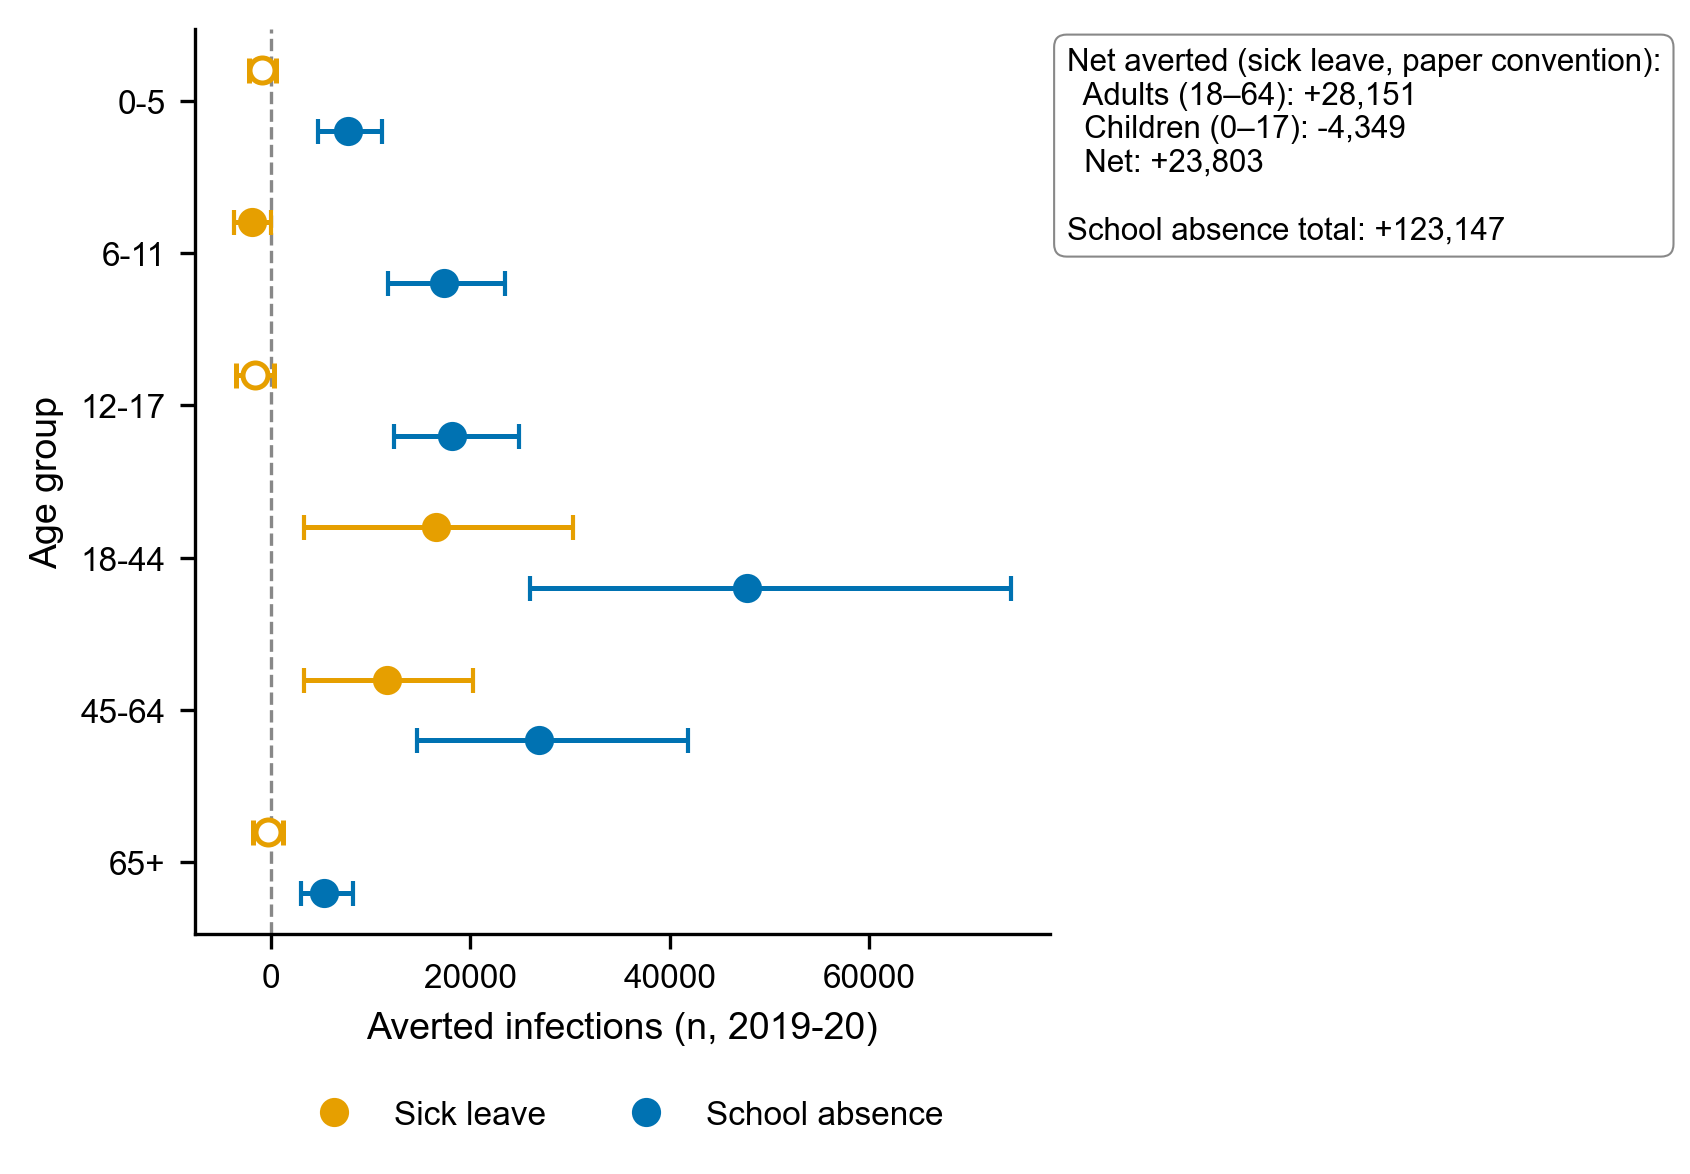
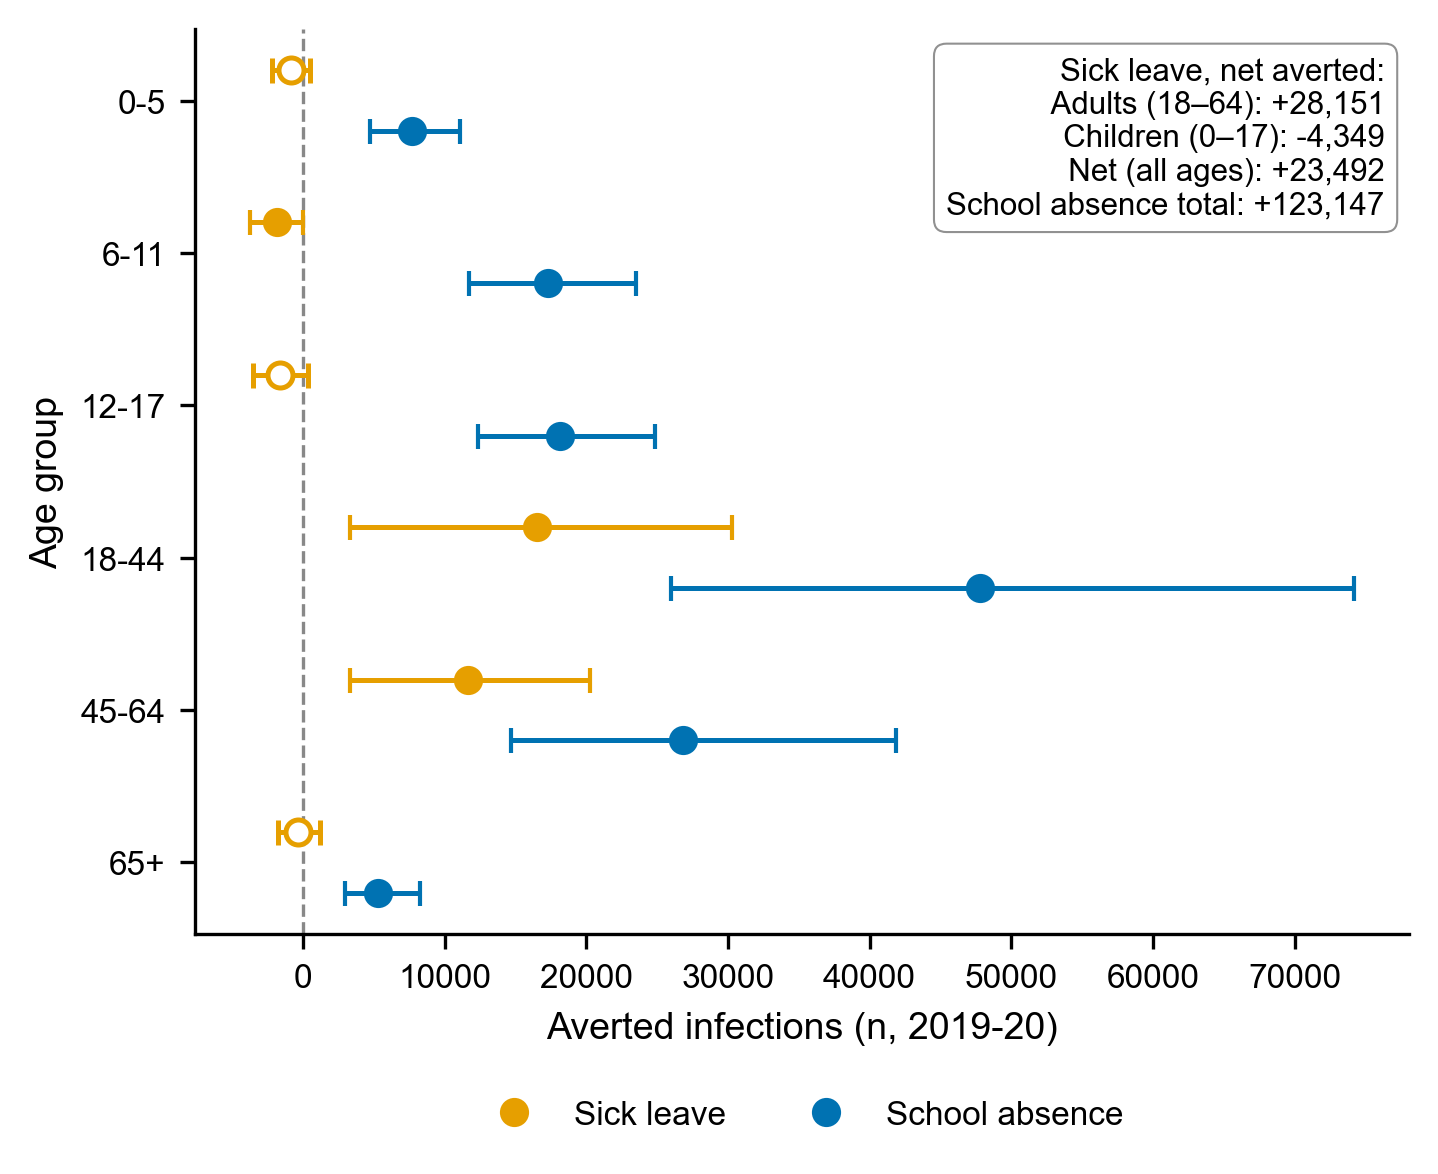
Figure F2 layout fix: box → in-axes upper-right, Net = sick_num_net_term
Moved summary box from outside right margin to in-axes upper-right
(0.98, 0.97, ha=right va=top) — empty quadrant of children rows.
Shrank figure width 0.85 → 0.72×W_DOUBLE to remove reserved margin.
Net now reads sick_num_net_term (all ages) matching manuscript
(+23,492) instead of adult+child sum (+23,803).

diff --git a/scripts/paper_figures.py b/scripts/paper_figures.py
@@ -147,7 +147,7 @@ def fig_F1():
 # ═══════════════════════════════════════════════════════════════════════════
 def fig_F2():
     s = "2019-2020"
-    fig, ax = plt.subplots(figsize=(W_DOUBLE * 0.85, 3.8), constrained_layout=True)
+    fig, ax = plt.subplots(figsize=(W_DOUBLE * 0.72, 3.8), constrained_layout=True)
     ys = np.arange(len(AGES))
     dy = 0.2
     for i, ag in enumerate(AGES):
@@ -168,11 +168,15 @@ def fig_F2():
     ax.set_xlabel("Averted infections (n, 2019-20)")
     ax.set_ylabel("Age group")
 
-    # 순합계 (paper 컨벤션: adult 18-64, child 0-17, 65+ 별도)
+    # 총계: sick net = 전 연령 순합계 (본문과 일치, sick_num_net_term)
     CHILD = ["0-5","6-11","12-17"]; ADULT_2 = ["18-44","45-64"]
     tot_sk_adult = sum(POL[s]["sick_num_by_age"][a]["mean"] for a in ADULT_2)
     tot_sk_child = sum(POL[s]["sick_num_by_age"][a]["mean"] for a in CHILD)
-    tot_sk_net = tot_sk_adult + tot_sk_child
+    _net_key = POL[s].get("sick_num_net_term")
+    if _net_key and _net_key.get("mean") is not None:
+        tot_sk_net = _net_key["mean"]
+    else:
+        tot_sk_net = sum(POL[s]["sick_num_by_age"][a]["mean"] for a in AGES)
     tot_sc = sum(POL[s]["school_num_by_age"][a]["mean"] for a in AGES)
 
     # 범례 (축 밖 하단, 겹침 방지)
@@ -186,18 +190,17 @@ def fig_F2():
               bbox_to_anchor=(0.5, -0.15), ncol=2,
               frameon=False, fontsize=8)
 
-    # Total averted 박스 — 데이터 밖 오른쪽 여백 (x 축 상단, 데이터 clip 확장)
-    # 65+ 마커는 y=5, x≈−400 근처. 65+ 마커와 겹치지 않게 그림 우상단(fig 좌표) 밖.
-    ax.text(1.02, 0.98,
-            f"Net averted (sick leave, paper convention):\n"
+    # 요약 박스 — 축 내부 우상단 (0-5/6-11/12-17 행의 오른쪽 사분면이 비어 있음)
+    ax.text(0.98, 0.97,
+            f"Sick leave, net averted:\n"
             f"  Adults (18–64): +{tot_sk_adult:,.0f}\n"
             f"  Children (0–17): {tot_sk_child:+,.0f}\n"
-            f"  Net: +{tot_sk_net:,.0f}\n\n"
+            f"  Net (all ages): +{tot_sk_net:,.0f}\n"
             f"School absence total: +{tot_sc:,.0f}",
-            transform=ax.transAxes, ha="left", va="top",
+            transform=ax.transAxes, ha="right", va="top",
             fontsize=7.5,
             bbox=dict(boxstyle="round,pad=0.4", fc="white",
-                       ec=COL_ZERO, lw=0.5))
+                       ec=COL_ZERO, lw=0.5, alpha=0.92))
     savefig(fig, "school_vs_sick_number")
 
 
